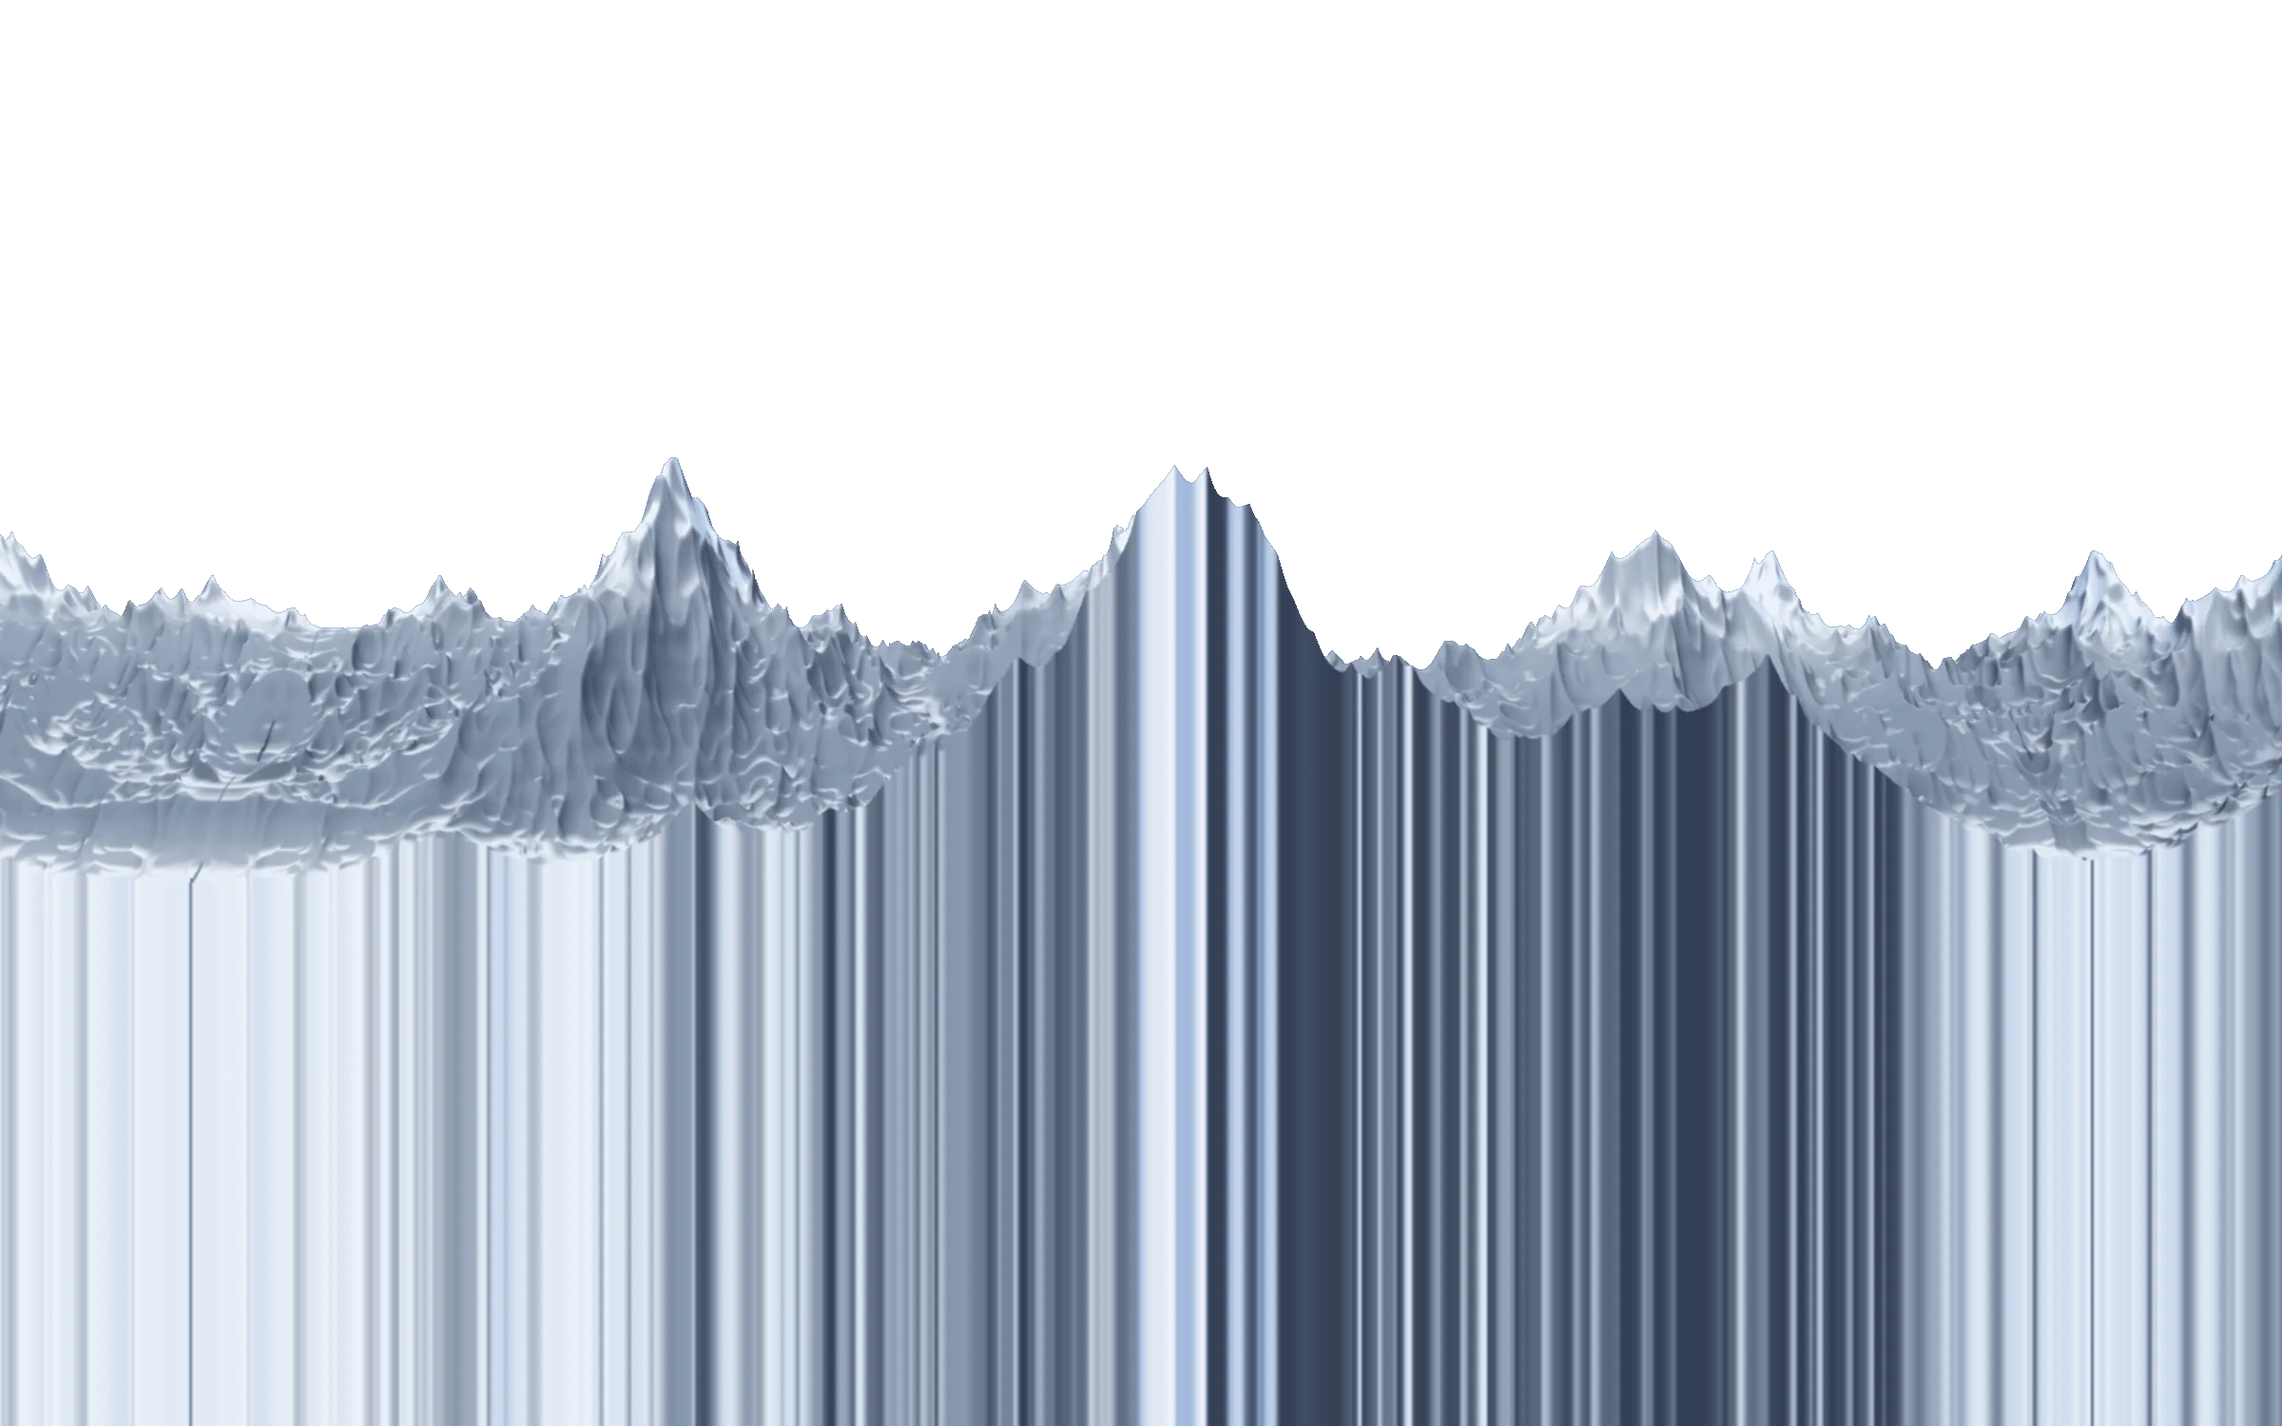
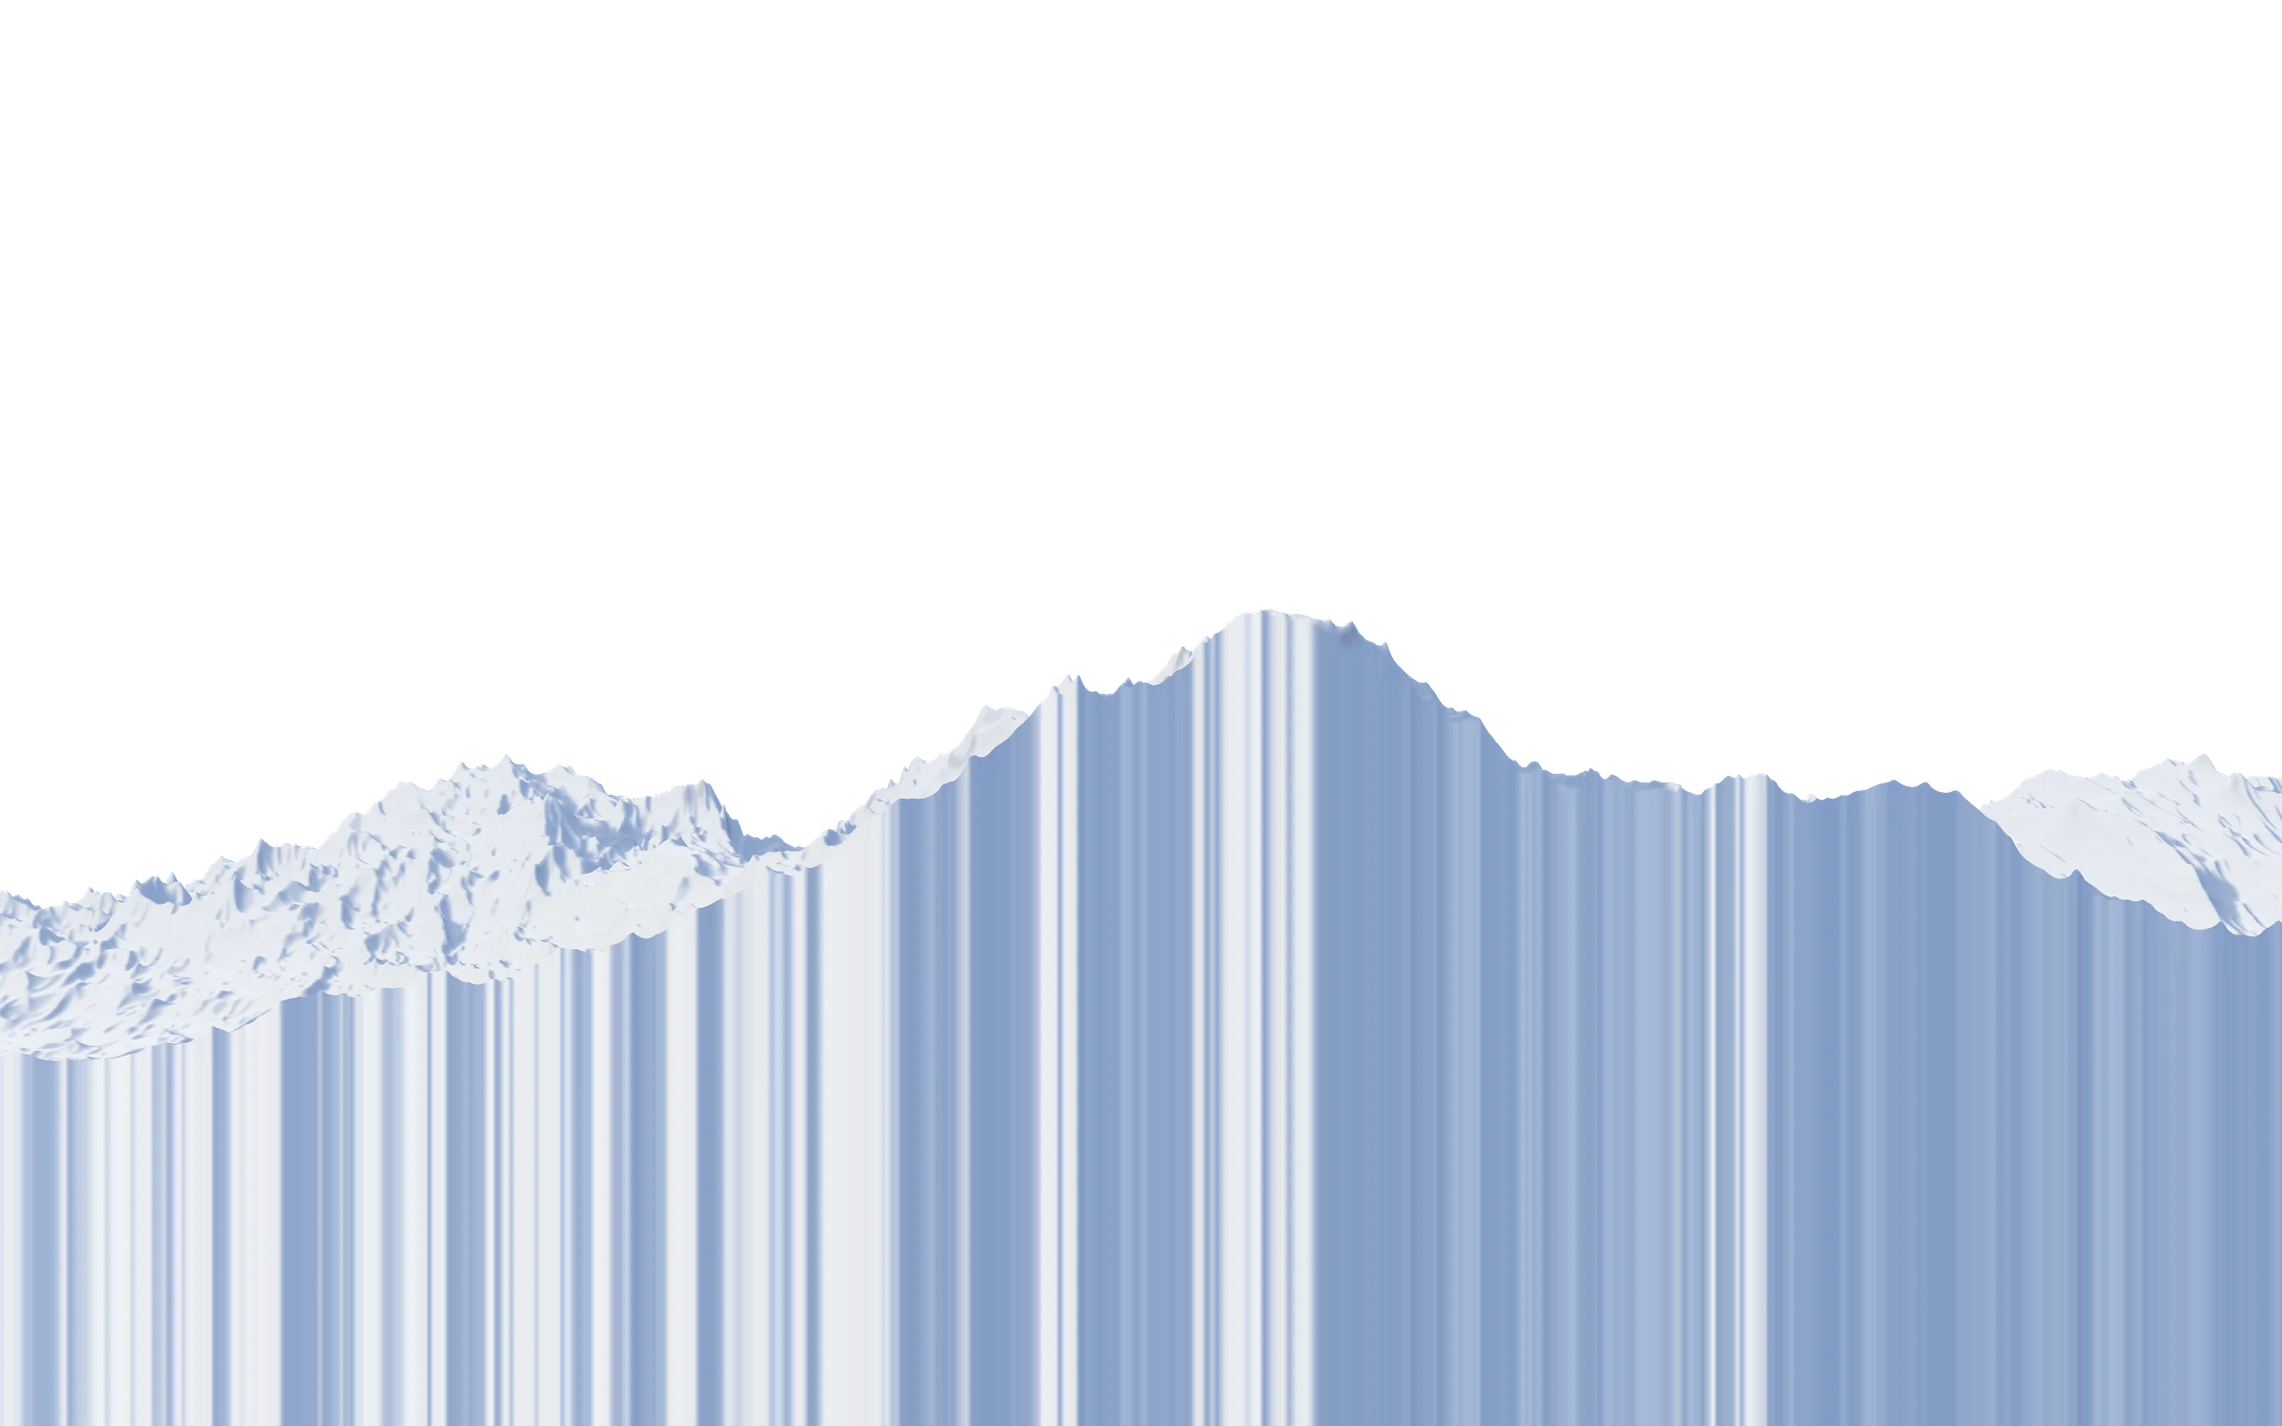
More realistic, snow-covered mountain, lower so the name reads clearly
- New render: domain-warped ridges, soft cast shadows from a low sun, snow over
  everything but the steepest faces, blue snow shadows, sky light, haze,
  2x supersampling; removes the striping and edge artifacts
- Range sits lower in the frame: CELLEXA and product names are fully legible
  with the peaks just meeting the letters
- Closing section text moved into the sky for contrast

Claude-Session: https://claude.ai/code/session_01SE5FzULHjtv3P6fMyYKrMp

diff --git a/src/app/globals.css b/src/app/globals.css
@@ -461,12 +461,12 @@ html:not(.motion) .anatomy__part { grid-area: auto; }
 .cat-row__arrow { color: var(--color-plum-deep); transition: transform 0.8s cubic-bezier(0.16, 1, 0.3, 1); }
 .cat-row:hover .cat-row__arrow { transform: translateX(8px); }
 
-.closer { min-height: 92svh; display: flex; align-items: flex-end; }
+.closer { min-height: 96svh; display: flex; align-items: flex-start; }
 .closer > div:last-child { width: 100%; }
 .closer__sky { position: absolute; inset: 0; background: linear-gradient(180deg, #123a7c 0%, #2a5fae 45%, #6f9fdc 100%); }
-.closer__mountain { position: absolute; inset: -10% 0 0 0; }
-.closer__mountain img { width: 100%; height: 100%; object-fit: cover; object-position: 50% 30%; }
-.closer::after { content: ""; position: absolute; inset: 0; z-index: 15; background: linear-gradient(180deg, rgba(11, 26, 53, 0) 30%, rgba(11, 26, 53, 0.72) 100%); }
+.closer__mountain { position: absolute; inset: 18% 0 0 0; }
+.closer__mountain img { width: 100%; height: 100%; object-fit: cover; object-position: 50% 60%; }
+.closer::after { content: ""; position: absolute; inset: 0; z-index: 15; pointer-events: none; background: linear-gradient(180deg, rgba(11, 26, 53, 0.35) 0%, rgba(11, 26, 53, 0) 45%); }
 .range-row__pen.is-vial img { max-width: 72px; margin-inline: auto 0; }
 @media (min-width: 900px) { .range-row__pen.is-vial img { margin-inline: 0; } }
 

diff --git a/src/app/page.tsx b/src/app/page.tsx
@@ -155,7 +155,7 @@ export default function Home() {
           <img src="/mountain/snow.webp" alt="" loading="lazy" width={2400} height={1500} className="closer__snow" />
         </div>
         <Snowfall density={0.6} className="z-10" />
-        <div className="relative z-20 mx-auto max-w-[1440px] px-4 pb-20 pt-28 sm:px-10 xl:px-16">
+        <div className="relative z-20 mx-auto max-w-[1440px] px-4 pb-20 pt-20 sm:px-10 sm:pt-24 xl:px-16">
           <h2 id="closer-title" className="display-xl max-w-5xl text-[clamp(2.6rem,8vw,8rem)] text-white" data-split="lines">
             Tested at the top
           </h2>

diff --git a/scripts/render-mountain.py b/scripts/render-mountain.py
@@ -1,102 +1,152 @@
+"""Rock-and-snow range, rendered as depth layers. v2: domain-warped ridges, cast shadows,
+snow cover except on cliffs, sky ambient light, aerial perspective, 2x supersampling."""
 import numpy as np, sys
-from PIL import Image, ImageFilter
-rng = np.random.default_rng(21)
-N = 2048  # heightmap res over world [0,1]x[0,1]
-def vnoise(cells, seed):
-    r = np.random.default_rng(seed).random((cells + 3, cells + 3))
-    im = Image.fromarray((r * 65535).astype(np.uint16).astype(np.int32)).convert('F')
-    big = np.asarray(im.resize(((cells + 3) * N // cells, (cells + 3) * N // cells), Image.BICUBIC))
-    return big[:N, :N] / 65535.0
-def ridged(oct_list, seed):
-    h = np.zeros((N, N)); amp_sum = 0; w = 1.0
-    for i, (cells, amp) in enumerate(oct_list):
-        n = vnoise(cells, seed + i)
-        r = 1 - np.abs(2 * n - 1); r = r ** 2
-        h += r * amp * (0.5 + 0.5 * w); w = r; amp_sum += amp
-    return h / amp_sum
-yy, xx = np.mgrid[0:N, 0:N] / N   # yy = depth (z), xx = x
-ridge = ridged([(4, 1.0), (8, .6), (16, .4), (32, .25), (64, .14), (128, .08)], 5)
-fbm = sum(vnoise(c, 50 + c) * a for c, a in [(3, 1), (6, .5), (12, .25)]) / 1.75
-# main massif behind centre, two shoulders, valley in front
-peak = np.exp(-(((xx - .52) / .16) ** 2 + ((yy - .62) / .13) ** 2))
-sh1 = np.exp(-(((xx - .25) / .14) ** 2 + ((yy - .55) / .12) ** 2)) * .62
-sh2 = np.exp(-(((xx - .8) / .15) ** 2 + ((yy - .58) / .14) ** 2)) * .7
-back = np.exp(-(((yy - .9) / .12) ** 2)) * (.45 + .3 * fbm)
-H = (peak * 1.0 + sh1 + sh2 + back) * (.55 + .75 * ridge) + ridge * .12 + fbm * .05
-H *= np.clip((yy - .08) / .25, 0, 1) ** 1.2      # flatten the foreground valley
-crag = (np.exp(-(((xx - .04) / .07) ** 2 + ((yy - .1) / .07) ** 2)) * .75 + np.exp(-(((xx - .97) / .08) ** 2 + ((yy - .14) / .08) ** 2)) * .9)
-H += crag * (.45 + .9 * ridge)
-H = (H + np.roll(H,1,0) + np.roll(H,-1,0) + np.roll(H,1,1) + np.roll(H,-1,1)) / 5
-Hb = H.copy()
-for _ in range(6): Hb = (Hb + np.roll(Hb,3,0) + np.roll(Hb,-3,0) + np.roll(Hb,3,1) + np.roll(Hb,-3,1)) / 5
-cav = np.clip(.5 + (H - Hb) * 14, 0, 1)
-# normals
-gy, gx = np.gradient(H * 9.0)
-nx, nz, ny = -gx * N / 60, -gy * N / 60, np.ones_like(H)
-ln = np.sqrt(nx ** 2 + ny ** 2 + nz ** 2); nx, ny, nz = nx / ln, ny / ln, nz / ln
-sun = np.array([-.55, .62, -.55]); sun /= np.linalg.norm(sun)
-lam = np.clip(nx * sun[0] + ny * sun[1] + nz * sun[2], 0, 1)
-# snow: above a noisy snowline and on gentler slopes
-snowline = .5 + fbm * .2 - np.clip(yy - .6, 0, 1) * .3
-slope = 1 - ny
-snow = np.clip((H - snowline) * 7, 0, 1) * np.clip(1 - (slope - .22) * 5.5, 0, 1)
-snow = np.clip(snow + np.clip((H - .9) * 6, 0, 1) * .6, 0, 1)
-flat = np.clip(1 - slope * 9, 0, 1)
-snow = np.clip(snow + flat * np.clip(.35 + fbm, 0, 1) + np.clip(.22 - H, 0, 1) * 5, 0, 1)
-snow = np.clip(snow * 1.15 + np.clip((H - snowline + .12) * 3, 0, 1) * np.clip(1 - (slope - .3) * 3, 0, 1) * .7, 0, 1)
-rock_lit = np.array([124, 140, 164.]); rock_dark = np.array([30, 40, 62.])
-snow_lit = np.array([250, 252, 255.]); snow_shade = np.array([150, 176, 214.])
-strata = (np.sin(H * 140 + fbm * 9) * .5 + .5) * .06
-rock = rock_dark + (rock_lit - rock_dark) * np.clip(lam * 1.35 * (.35 + 1.0 * cav) - strata, 0, 1)[..., None]
-snowc = snow_shade + (snow_lit - snow_shade) * (np.clip(lam * 1.3 - .1, 0, 1) * (.75 + .3 * cav))[..., None] ** .8
-COL = rock * (1 - snow[..., None]) + snowc * snow[..., None]
-COL = (COL*2 + np.roll(COL,1,1) + np.roll(COL,-1,1) + np.roll(COL,1,0) + np.roll(COL,-1,0)) / 6
-COL[:24] = COL[24]
-H[:6] = H[6]
+from PIL import Image
+N = 2048
+rng = np.random.default_rng(7)
 
+def vnoise(cells, seed):
+    r = np.random.default_rng(seed).random((cells + 3, cells + 3)).astype(np.float32)
+    im = Image.fromarray(r, mode="F").resize(((cells + 3) * N // cells,) * 2, Image.BICUBIC)
+    return np.asarray(im)[:N, :N]
+
+def fbm(octs, seed):
+    h = sum(vnoise(c, seed + i) * a for i, (c, a) in enumerate(octs))
+    return h / sum(a for _, a in octs)
+
+yy, xx = (np.mgrid[0:N, 0:N] / N).astype(np.float32)
+# domain warp for natural, non-grid ridges
+wx = fbm([(3, 1), (6, .5), (12, .25)], 100) - .5
+wz = fbm([(3, 1), (6, .5), (12, .25)], 200) - .5
+def warped_ridged(seed, octs):
+    h = np.zeros((N, N), np.float32); amp = 0; prev = np.ones((N, N), np.float32)
+    for i, (cells, a) in enumerate(octs):
+        n = vnoise(cells, seed + i)
+        # sample warped coordinates via index lookup
+        fx = np.clip((xx + wx * .18) * (N - 1), 0, N - 1.001)
+        fz = np.clip((yy + wz * .18) * (N - 1), 0, N - 1.001)
+        x0 = fx.astype(int); z0 = fz.astype(int); tx = fx - x0; tz = fz - z0
+        n = (n[z0, x0] * (1 - tx) + n[z0, x0 + 1] * tx) * (1 - tz) + (n[z0 + 1, x0] * (1 - tx) + n[z0 + 1, x0 + 1] * tx) * tz
+        r = (1 - np.abs(2 * n - 1)) ** 2
+        h += r * a * (0.45 + 0.55 * prev); prev = r; amp += a
+    return h / amp
+ridge = warped_ridged(10, [(4, 1), (8, .55), (16, .34), (32, .22), (64, .14), (128, .08), (256, .045)])
+low = fbm([(2, 1), (4, .5), (8, .25)], 300)
+g = lambda cx, cz, sx, sz: np.exp(-(((xx - cx) / sx) ** 2 + ((yy - cz) / sz) ** 2))
+massif = g(.52, .64, .19, .15) * 1.0 + g(.27, .58, .15, .12) * .62 + g(.79, .6, .16, .14) * .7 + np.exp(-(((yy - .92) / .12) ** 2)) * (.42 + .3 * low)
+H = massif * (.5 + .8 * ridge) + ridge * .1 + low * .06
+H *= np.clip((yy - .1) / .28, 0, 1) ** 1.3
+H = H.astype(np.float32)
+H[:8] = H[8]
+
+# ---------- snow-smoothed surface: snow fills gullies and rounds edges ----------
+def blur(a, k):
+    out = a.copy()
+    for _ in range(k):
+        out = (out * 2 + np.roll(out, 1, 0) + np.roll(out, -1, 0) + np.roll(out, 1, 1) + np.roll(out, -1, 1)) / 6
+    return out
+Hs = blur(H, 1)
+# normals
+def normals(h, scale):
+    gy, gx = np.gradient(h * scale)
+    nx, nz, ny = -gx * N / 60, -gy * N / 60, np.ones_like(h)
+    l = np.sqrt(nx ** 2 + ny ** 2 + nz ** 2)
+    return nx / l, ny / l, nz / l
+nx, ny, nz = normals(Hs, 9.0)
+lx, ly, lz = normals(blur(H, 1), 17.0)  # sharper relief for light and shade
+slope = 1 - ny
+
+# ---------- snow cover: everywhere except steep cliffs and a few wind-scoured ribs ----------
+patch = fbm([(10, 1), (24, .6), (60, .3)], 400)
+cliff = np.clip((slope - .62) * 6, 0, 1)                      # steep faces shed snow
+ribs = np.clip((ridge - .62) * 5, 0, 1) * np.clip((slope - .32) * 4, 0, 1) * (patch > .55)
+rock = np.clip(cliff * (.35 + .5 * patch) + ribs * .3, 0, .8)
+rock *= np.clip((Hs - .08) * 6, 0, 1)                           # valley floor fully white
+snow = 1 - rock
+
+# ---------- lighting: low sun from the left, cast shadows, sky ambient ----------
+sun = np.array([-.7, .34, -.45]); sun /= np.linalg.norm(sun)
+lam = np.clip(lx * sun[0] + ly * sun[1] + lz * sun[2], 0, 1)
+# cast shadows: march toward the sun in heightmap space
+HS = (blur(H, 1) * 0.255).astype(np.float32)  # world height units used by the camera
+shadow = np.zeros((N, N), np.float32)
+step_xy = np.array([sun[0], sun[2]]) / np.hypot(sun[0], sun[2])
+rise = sun[1] / np.hypot(sun[0], sun[2])
+for k in range(1, 300):
+    d = k * 1.4
+    ox, oz = int(round(step_xy[0] * d)), int(round(step_xy[1] * d))
+    shifted = np.full_like(HS, -1.0)
+    sz0, sz1 = max(0, -oz), N - max(0, oz); dz0 = max(0, oz)
+    sx0, sx1 = max(0, -ox), N - max(0, ox); dx0 = max(0, ox)
+    shifted[sz0:sz1, sx0:sx1] = HS[dz0:dz0 + (sz1 - sz0), dx0:dx0 + (sx1 - sx0)]
+    shadow = np.maximum(shadow, np.clip((shifted - HS - rise * d / N) * 900, 0, 1))
+shadow = blur(shadow.astype(np.float32), 5)
+direct = lam * (1 - shadow * .95)
+amb = .35 + .45 * ly                                            # open sky above flat snow
+# colours
+snow_lit = np.array([253, 253, 255.]); snow_shade = np.array([112, 144, 198.]); snow_deep = np.array([92, 124, 182.])
+rock_lit = np.array([120, 130, 150.]); rock_dark = np.array([48, 60, 86.])
+bright = np.clip(direct * 1.55 + .3 * ly, 0, 1)
+t = bright[..., None] ** .9
+snowc = snow_shade * (1 - t) + snow_lit * t
+snowc = snowc * (.84 + .16 * amb[..., None])
+
+snowc = np.where((shadow[..., None] > .5) & (amb[..., None] < .55), snowc * .9 + snow_deep * .1, snowc)
+grain = (fbm([(200, 1)], 500)[..., None] - .5) * 14
+rockc = rock_dark + (rock_lit - rock_dark) * np.clip(direct * 1.1 + .1, 0, 1)[..., None] + grain
+COL = snowc * snow[..., None] + rockc * rock[..., None]
+COL = blur(COL.astype(np.float32), 1)
+COL[:24] = COL[24]
+
+# ---------- camera ----------
 W, Ht = int(sys.argv[1]), int(sys.argv[2])
-cam = np.array([.5, .13, -.42])   # x, height, z
-focal = W * 0.95; horizon = Ht * 0.50; tilt = 0
-def sample(A, wx, wz):
-    wx = 1 - np.abs(1 - np.mod(wx, 2))
-    fx = np.clip(wx * (N - 1), 0, N - 1.001); fz = np.clip(wz * (N - 1), 0, N - 1.001)
+SS = 2
+Wr, Hr = W * SS, Ht * SS
+cam = np.array([.5, .11, -.46])
+focal = Wr * 1.15; horizon = Hr * .63
+HZ = np.array([214, 230, 246.])
+def sample(A, wx_, wz_):
+    wx_ = np.clip(0.5 + (wx_ - 0.5) * 0.7, 0, 1)
+    fx = np.clip(wx_ * (N - 1), 0, N - 1.001); fz = np.clip(wz_ * (N - 1), 0, N - 1.001)
     x0 = fx.astype(int); z0 = fz.astype(int); tx = fx - x0; tz = fz - z0
     a = A[z0, x0]; b = A[z0, x0 + 1]; c = A[z0 + 1, x0]; d = A[z0 + 1, x0 + 1]
     if A.ndim == 3: tx = tx[..., None]; tz = tz[..., None]
     return (a * (1 - tx) + b * tx) * (1 - tz) + (c * (1 - tx) + d * tx) * tz
-def render(z_from, z_to, nz=2400):
-    d = np.geomspace(max(z_from - cam[2], .02), z_to - cam[2], nz)       # distances
-    cols = (np.arange(W) - W / 2) / focal
-    wx = cam[0] + cols[None, :] * d[:, None]
-    wz = cam[2] + d[:, None] * np.ones((1, W))
-    h = sample(H, wx, wz) * .34
+def render(z_from, z_to, nz=4200):
+    d = np.geomspace(max(z_from - cam[2], .02), z_to - cam[2], nz)
+    cols = (np.arange(Wr) - Wr / 2) / focal
+    wx_ = cam[0] + cols[None, :] * d[:, None]
+    wz_ = cam[2] + d[:, None] * np.ones((1, Wr))
+    h = sample(HS, wx_, wz_)
     ytop = horizon - (h - cam[1]) * focal / d[:, None]
-    img = np.zeros((Ht, W, 4))
-    rows = np.arange(Ht)
-    colr = sample(COL, wx, wz)
-    for i in range(W):
-        m = np.minimum.accumulate(ytop[:, i])           # running min (front-to-back occlusion)
-        # first depth index whose running-min top is above this row
-        idx = np.searchsorted(-m, -rows, side='left')
+    colr = sample(COL, wx_, wz_)
+    img = np.zeros((Hr, Wr, 4), np.float32)
+    rows = np.arange(Hr)
+    for i in range(Wr):
+        m = np.minimum.accumulate(ytop[:, i])
+        idx = np.searchsorted(-m, -rows, side="left")
         vis = idx < len(d)
         idx = np.minimum(idx, len(d) - 1)
-        c = colr[idx, i]
-        dist = d[idx]
-        fog = np.clip((dist - .7) / 1.4, 0, 1) ** 1.2 * .5
-        sky_near = np.array([214, 230, 246.])
-        c = c * (1 - fog[:, None]) + sky_near * fog[:, None]
-        img[:, i, :3] = c; img[:, i, 3] = vis * 255
-    return img
+        # interpolate between the two depth steps that bracket the hit, so faces are smooth
+        ip = np.maximum(idx - 1, 0)
+        a0 = m[ip]; a1 = m[idx]
+        tt = np.clip((a0 - rows) / np.maximum(a0 - a1, 1e-6), 0, 1)[:, None]
+        tt = np.where((idx > 0)[:, None], tt, 1.0)
+        c = colr[ip, i] * (1 - tt) + colr[idx, i] * tt
+        dist = d[ip] * (1 - tt[:, 0]) + d[idx] * tt[:, 0]
+        near = np.clip(1 - (dist - .05) / .8, 0, 1)[:, None] ** 1.3
+        c = c * (1 - near) + np.array([240, 244, 251.]) * near
+        fog = (np.clip((dist - .7) / 1.4, 0, 1) ** 1.15 * .58)[:, None]
+        img[:, i, :3] = c * (1 - fog) + HZ * fog
+        img[:, i, 3] = vis * 255
+    out = Image.fromarray(img.clip(0, 255).astype(np.uint8), "RGBA")
+    return out.resize((W, Ht), Image.LANCZOS)
 mode = sys.argv[3]
-if mode == 'full':
-    img = render(-0.40, 1.0)
-    sky = np.zeros((Ht, W, 3))
+if mode == "full":
+    a = render(-.42, 1.0)
     t = (np.arange(Ht) / Ht)[:, None, None]
-    sky = (np.array([42, 92, 168.]) * (1 - t) + np.array([206, 226, 246.]) * t) * np.ones((1, W, 1))
-    a = img[..., 3:4] / 255
-    out = img[..., :3] * a + sky * (1 - a)
-    Image.fromarray(out.clip(0, 255).astype(np.uint8)).save(sys.argv[4])
+    sky = (np.array([28, 74, 150.]) * (1 - t) + np.array([206, 226, 246.]) * t) * np.ones((1, W, 1))
+    bg = Image.fromarray(sky.astype(np.uint8)).convert("RGBA"); bg.alpha_composite(a)
+    bg.convert("RGB").save(sys.argv[4])
 else:
-    z0, z1 = float(sys.argv[5]), float(sys.argv[6])
-    img = render(z0, z1)
-    Image.fromarray(img.clip(0, 255).astype(np.uint8), 'RGBA').save(sys.argv[4])
+    render(float(sys.argv[5]), float(sys.argv[6])).save(sys.argv[4])
